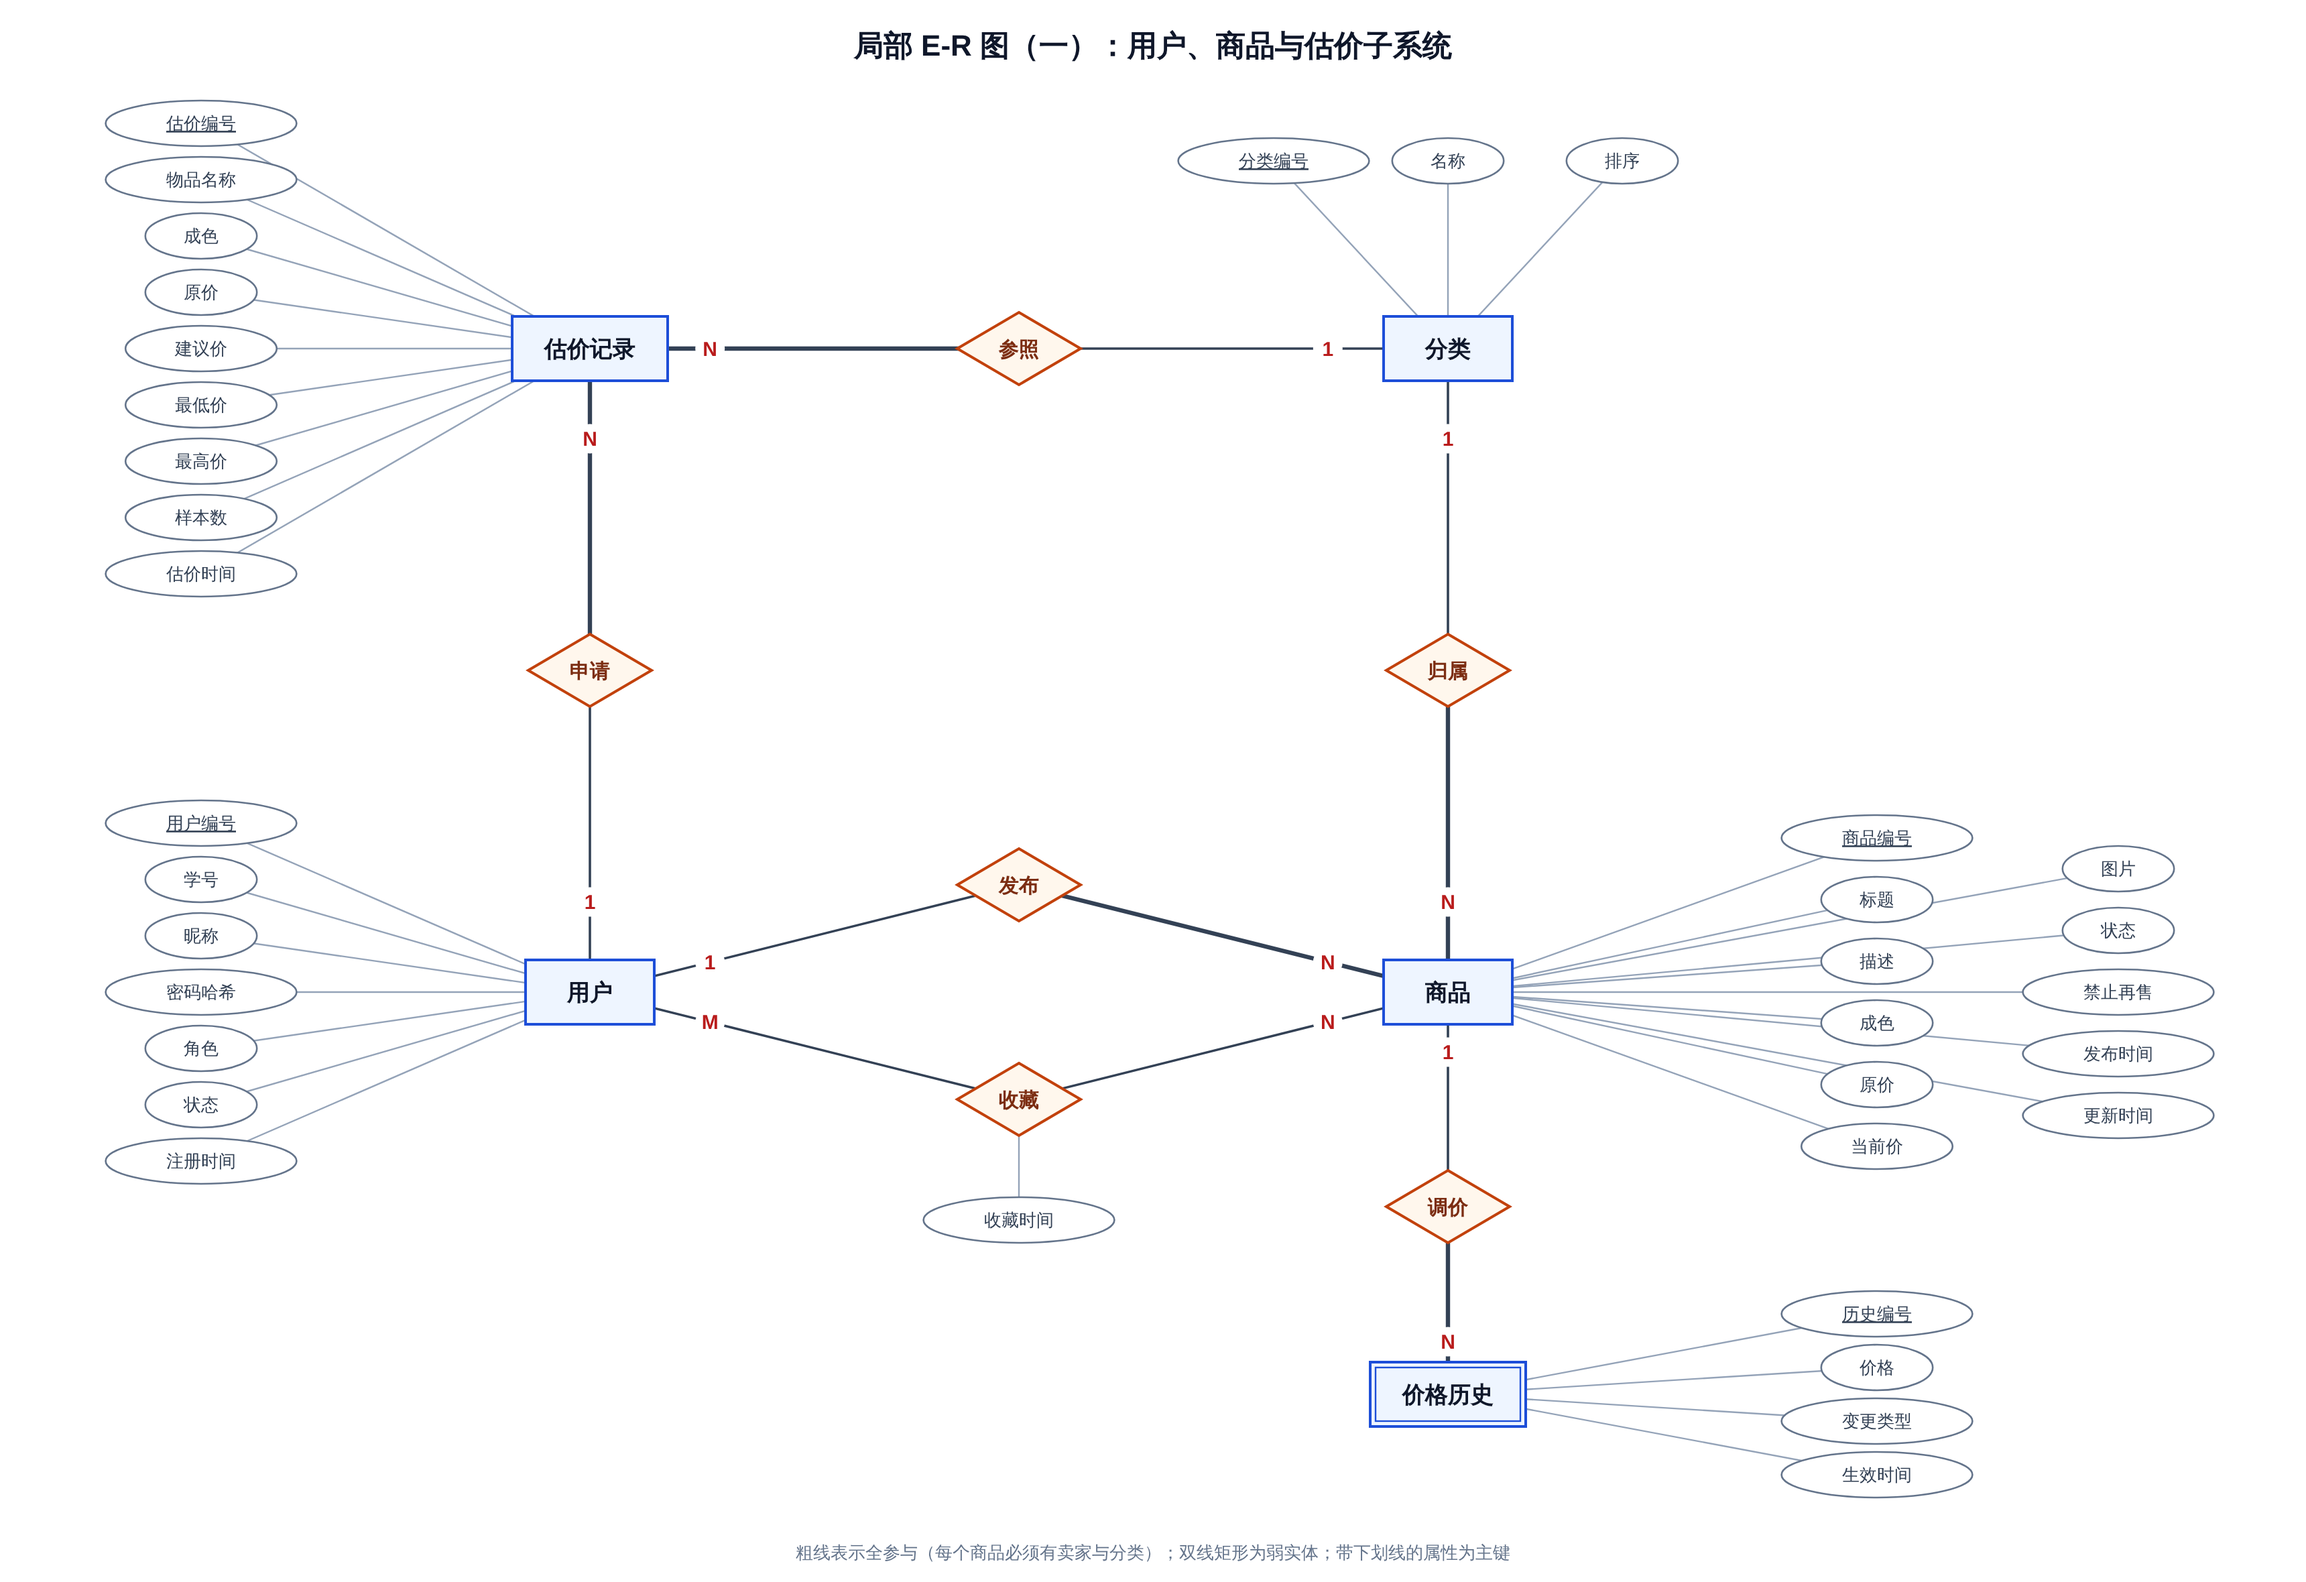
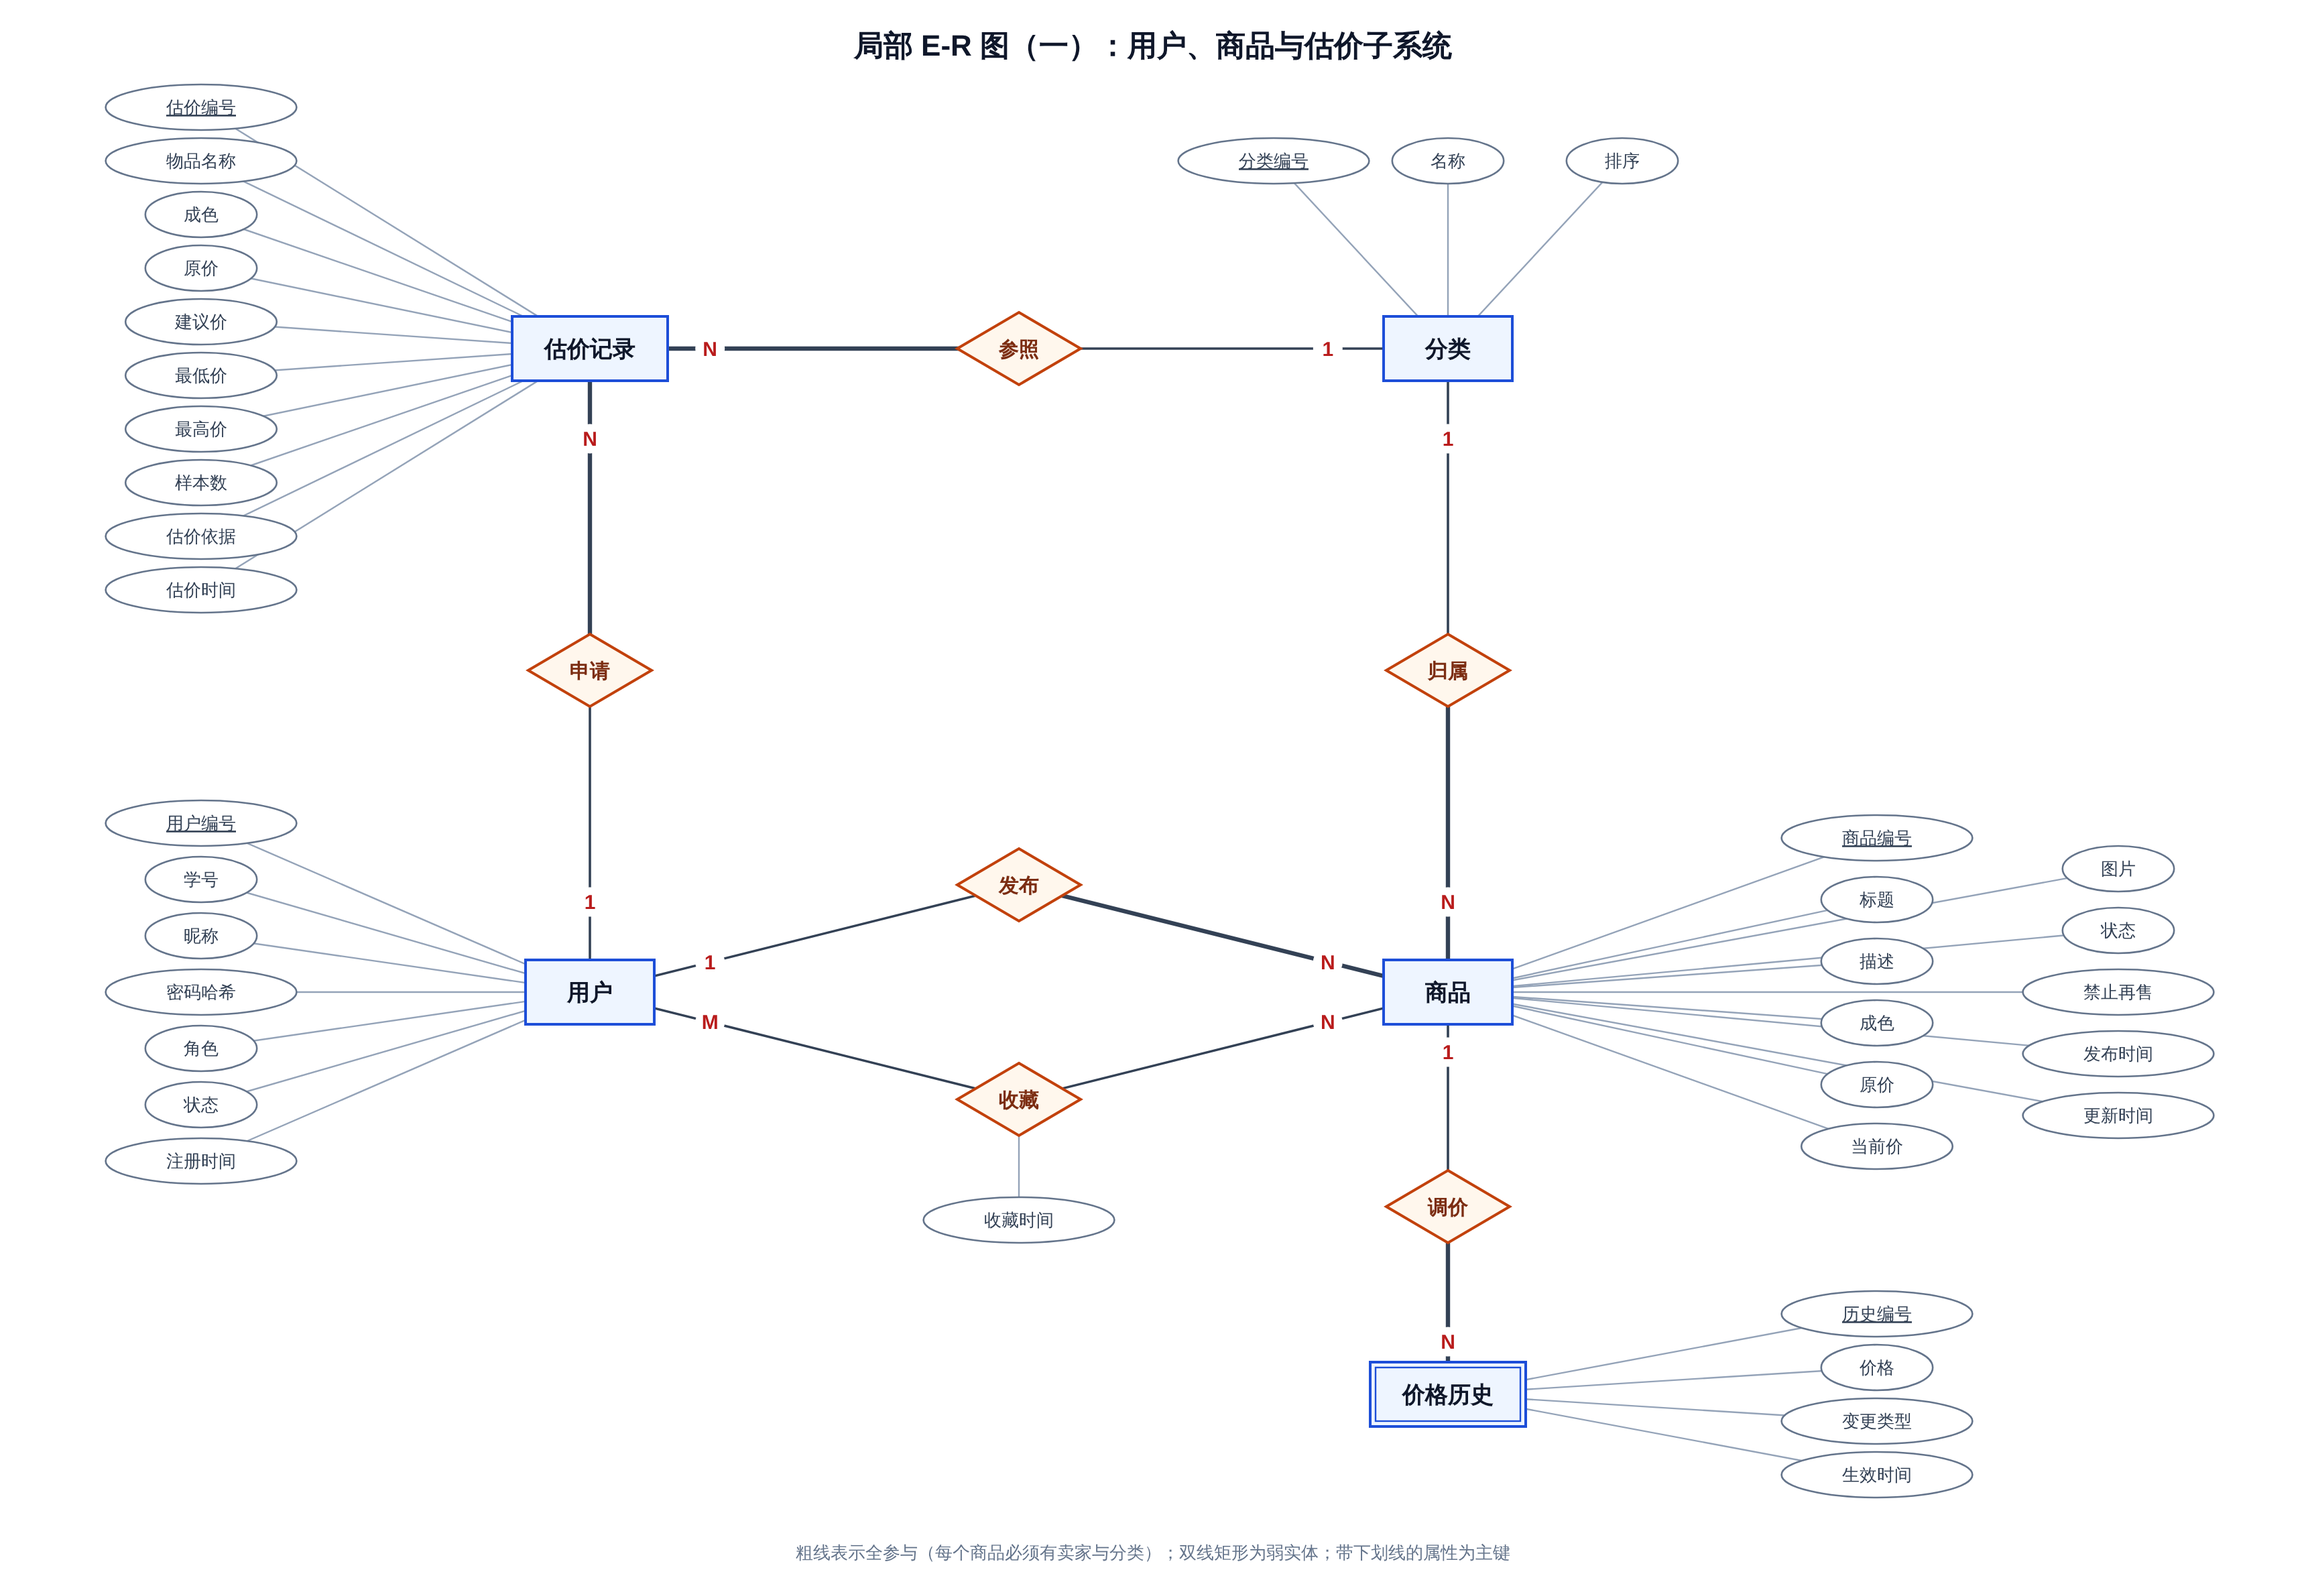
E-R 图：估价记录补充估价依据属性
Claude-Session: https://claude.ai/code/session_01W25ZZDwGZEecndx73zSJgH

Changed region(s): [[0.0622, 0.0619, 0.2177, 0.4021]]

diff --git a/docs/er/draw_er.py b/docs/er/draw_er.py
@@ -126,7 +126,7 @@ def local_user_listing():
     d.link("U", "fav", "M"); d.link("L", "fav", "N")
     d.link("L", "rep", "1"); d.link("PH", "rep", "N", total=True)
     d.attr_at("fav", "收藏时间", 760, 910)
-    d.column("V", ["估价编号", "物品名称", "成色", "原价", "建议价", "最低价", "最高价", "样本数", "估价时间"], 150, 260)
+    d.column("V", ["估价编号", "物品名称", "成色", "原价", "建议价", "最低价", "最高价", "样本数", "估价依据", "估价时间"], 150, 260, 40)
     d.column("U", ["用户编号", "学号", "昵称", "密码哈希", "角色", "状态", "注册时间"], 150, 740)
     d.row("C", ["分类编号", "名称", "排序"], 120, 1080)
     d.column("L", ["商品编号", "标题", "描述", "成色", "原价", "当前价"], 1400, 740, 46)
